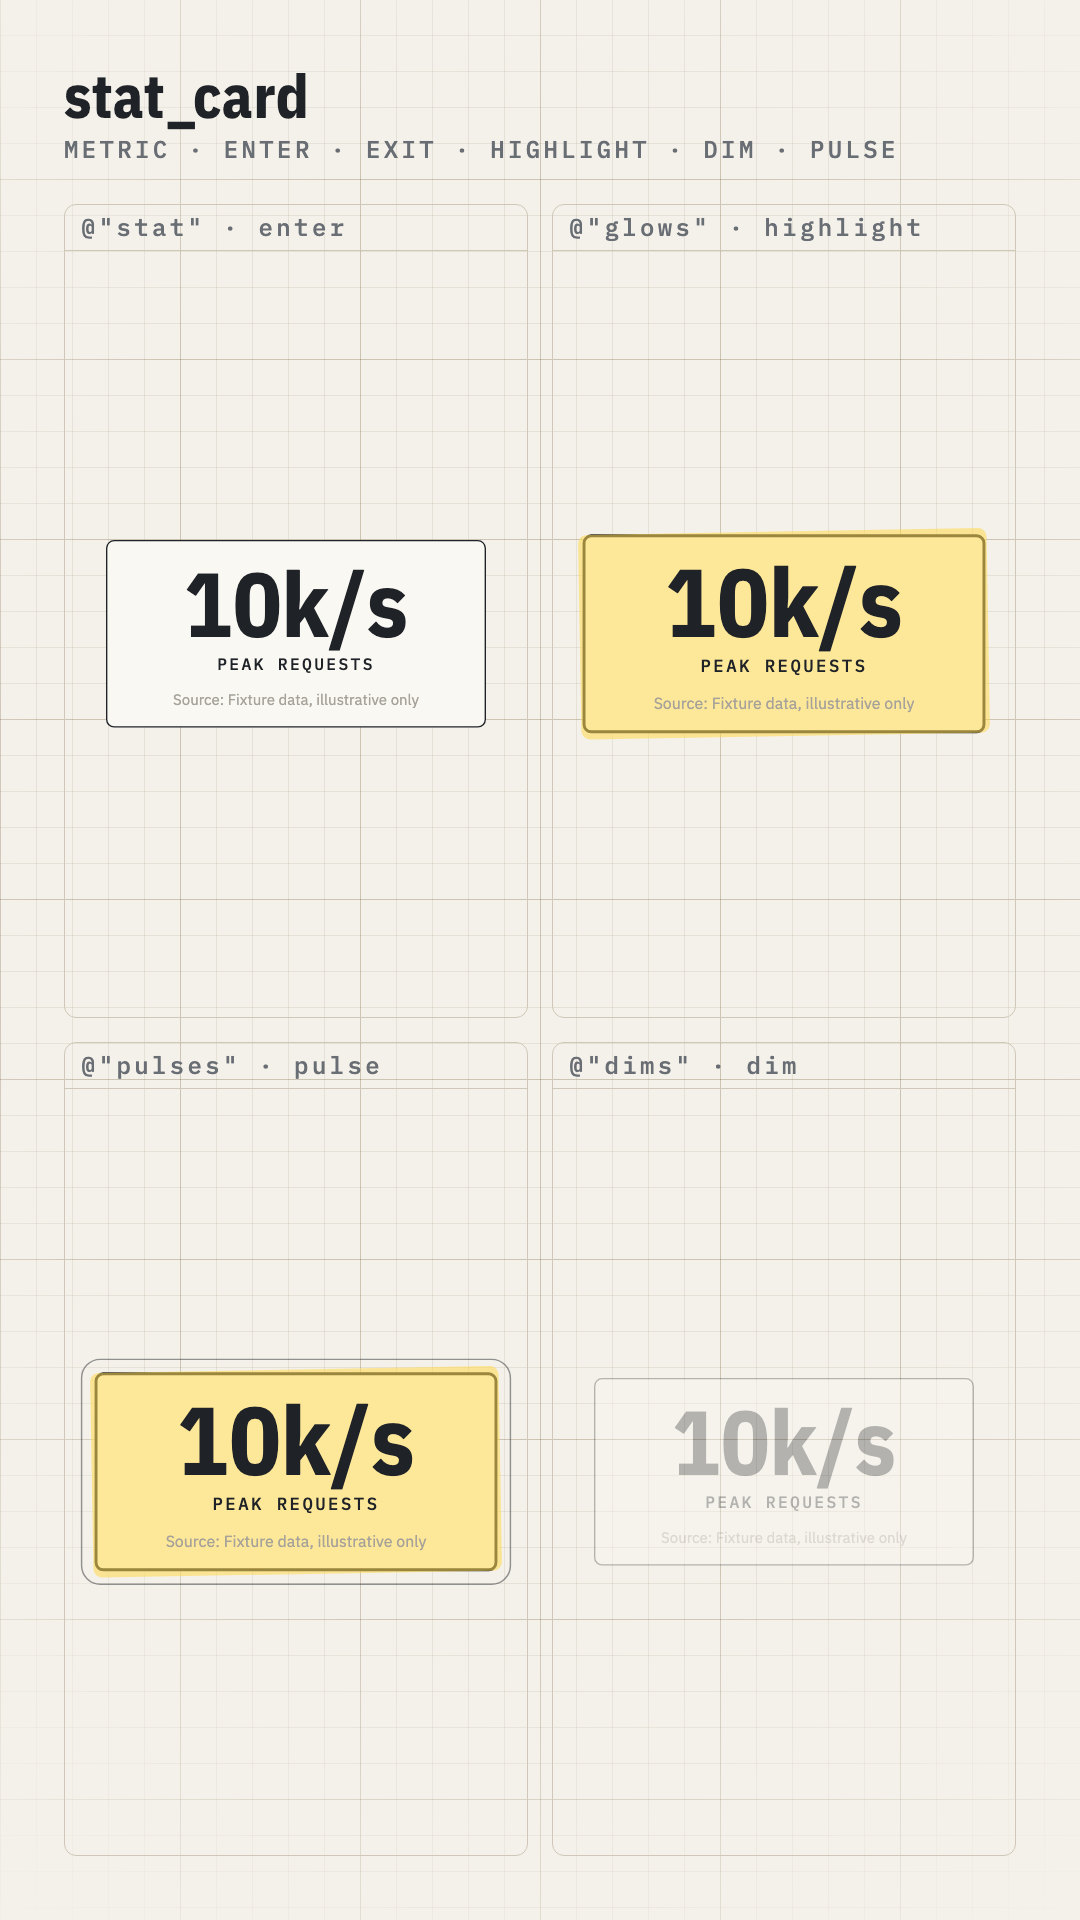
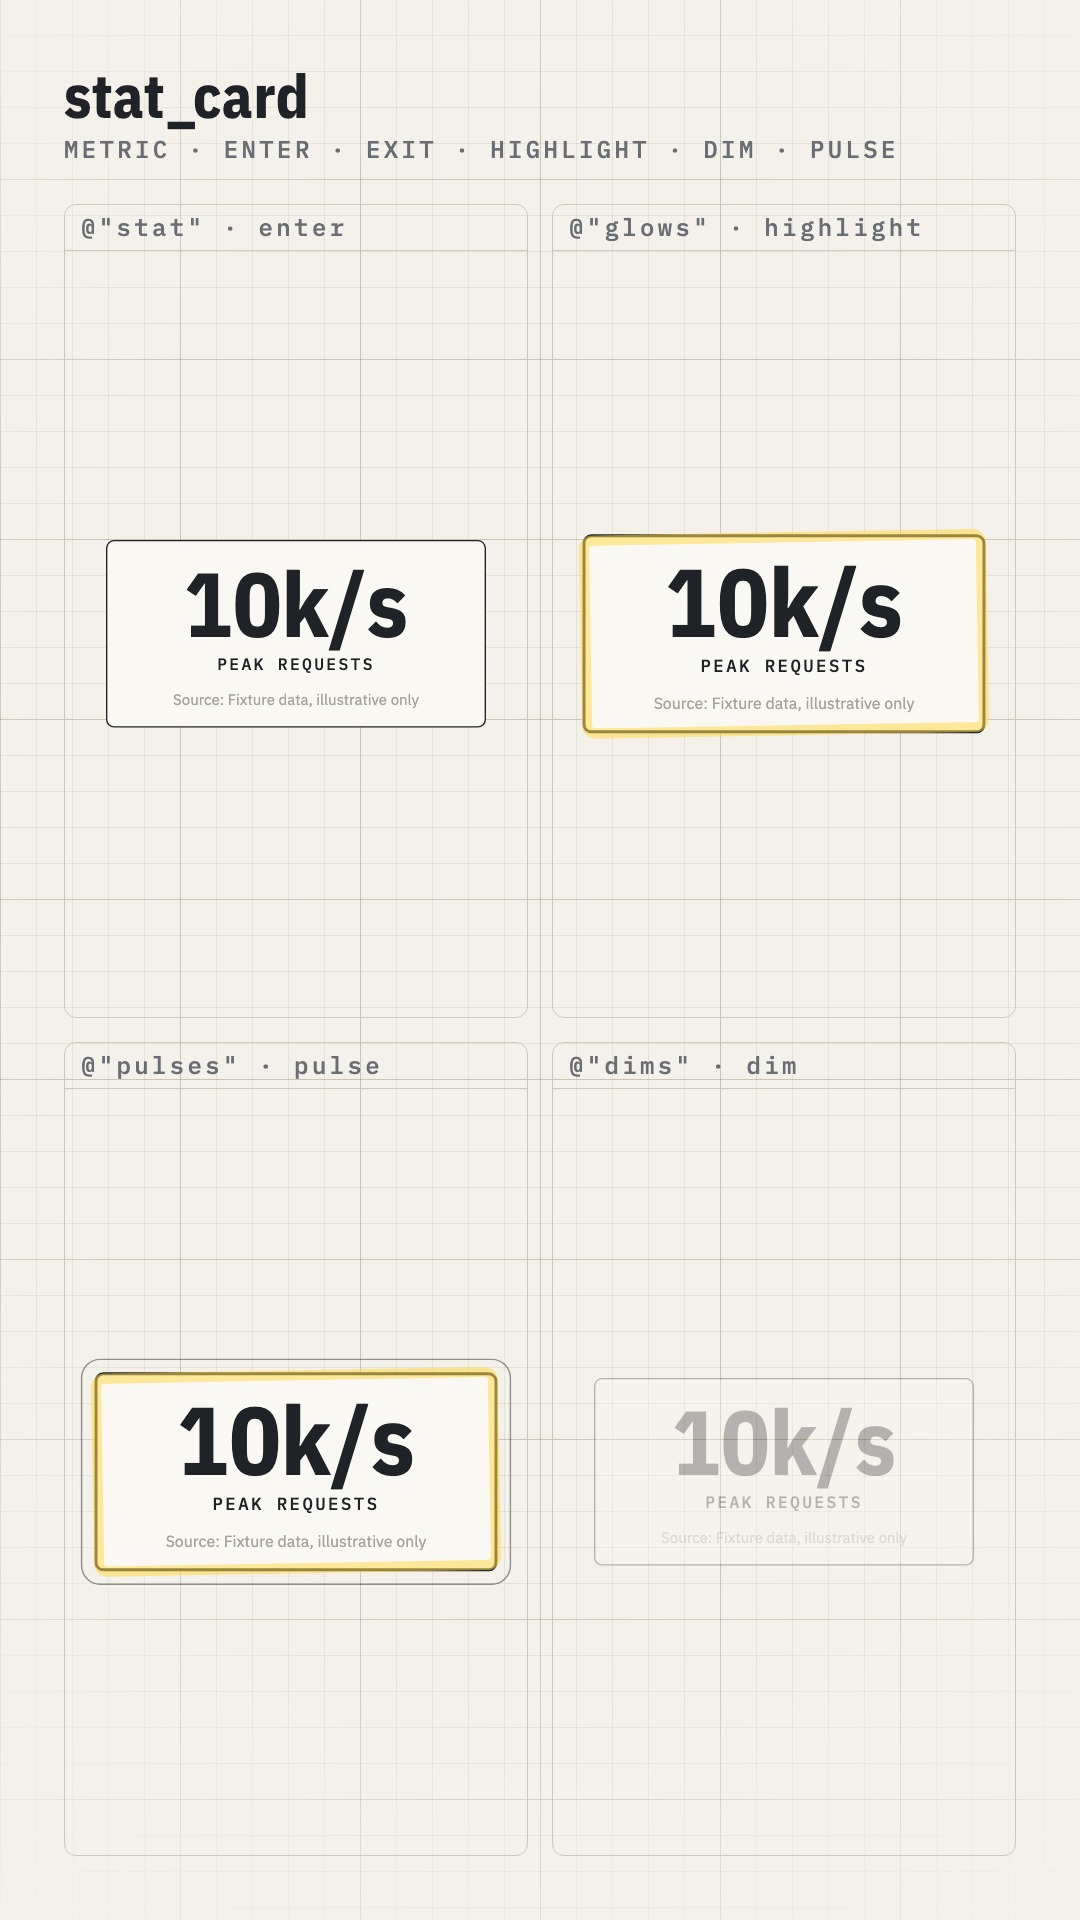
theme: reject ends highlight; frame mark for large elements
- A reject ends a held highlight on that element or part (elementState), in
  every theme; a highlight after the reject holds again. Lock stays.
- Mark themes: cards and spatial containers above MARK_FRAME_MIN (360 px on
  either side) get a 14 px highlighter frame along the border instead of a
  full swipe, drawn over their content so opaque faces cannot hide it.
  Applies to slot_grid, map_base, zone_polygon, grid_overlay, conveyor_queue
  and large cards; text-like elements keep the swipe.

blueprint-dark: only the boards with highlight followed by reject change
(command_bubble, connector, item_icon, node_card, packet_stream, route_path,
slot_grid, tag, timer_ring); every other still is byte-identical.

Changed region(s): [[0.5194, 0.2812, 0.9167, 0.4062], [0.0917, 0.7188, 0.4583, 0.8438]]

diff --git a/packages/renderer/src/emphasis/Mark.tsx b/packages/renderer/src/emphasis/Mark.tsx
@@ -1,11 +1,14 @@
 import { useId } from 'react';
 import type { Point } from '../primitives/geometry.ts';
+import type { Size } from '../primitives/types.ts';
 import type { Theme } from '../theme/index.ts';
 import {
   MARK_ANGLE_DEG,
+  MARK_FRAME_BAND,
   MARK_OVERHANG,
   MARK_RADIUS,
   markFill,
+  markShape,
   markView,
   type MarkLevels,
 } from './emphasis.ts';
@@ -20,26 +23,37 @@ type BoxMarkProps = {
   levels: MarkLevels;
   /** Corner radius of the swipe; `'round'` for circular elements. Defaults to `MARK_RADIUS`. */
   radius?: number | 'round';
+  /**
+   * The element's size. Cards and spatial containers pass it, so above `MARK_FRAME_MIN` they get
+   * a frame mark (`markShape`); text-like elements leave it out and always get a swipe.
+   */
+  size?: Size;
 };
 
 /**
- * A highlighter swipe behind a box element, overhanging it by `MARK_OVERHANG`, plus the pulse
- * ripple. Place it as the first child of an element styled with `markHostCss`.
+ * A highlighter swipe behind a box element, overhanging it by `MARK_OVERHANG` (or, for a large
+ * element, a frame band centred on its border, drawn over its content, that leaves the inside
+ * untouched), plus the pulse ripple.
+ * Place it as the first child of an element styled with `markHostCss`.
  */
-export function BoxMark({ theme, levels, radius = MARK_RADIUS }: BoxMarkProps) {
+export function BoxMark({ theme, levels, radius = MARK_RADIUS, size }: BoxMarkProps) {
   const view = markView(theme, levels);
   if (!view) return null;
   const corner = (extra: number) => (radius === 'round' ? '50%' : radius + extra);
+  const frame = markShape(size) === 'frame';
   return (
     <>
       {view.swipe > 0 ? (
         <div
           style={{
             position: 'absolute',
-            inset: -MARK_OVERHANG,
-            zIndex: -1,
-            borderRadius: corner(0),
-            background: markFill(theme),
+            inset: frame ? -MARK_FRAME_BAND / 2 : -MARK_OVERHANG,
+            // A frame leaves the inside untouched, so it can sit over opaque content (a map).
+            zIndex: frame ? 1 : -1,
+            borderRadius: corner(frame ? MARK_FRAME_BAND / 2 : 0),
+            ...(frame
+              ? { border: `${MARK_FRAME_BAND}px solid ${markFill(theme)}` }
+              : { background: markFill(theme) }),
             opacity: view.swipe,
             transform: `rotate(${MARK_ANGLE_DEG}deg)`,
           }}

diff --git a/packages/renderer/src/primitives/element-state.test.ts b/packages/renderer/src/primitives/element-state.test.ts
@@ -71,6 +71,21 @@ describe('elementState', () => {
     expect(elementState(events, 18, FPS).emphasis).toBeCloseTo(0);
   });
 
+  it('ends a held highlight at a reject (highlight → reject)', () => {
+    const events = [at('highlight', 0), at('lock', 20), at('reject', 40)];
+    expect(elementState(events, 30, FPS)).toMatchObject({ highlight: 1, emphasis: 1 });
+    const after = elementState(events, 80, FPS);
+    expect(after).toMatchObject({ highlight: 0, emphasis: 0 });
+    // Lock is state, not emphasis: it stays.
+    expect(after.actions).toMatchObject({ lock: 1, reject: 1 });
+  });
+
+  it('holds a highlight that comes after the reject (highlight → reject → highlight)', () => {
+    const events = [at('highlight', 0), at('reject', 40), at('highlight', 80)];
+    expect(elementState(events, 60, FPS)).toMatchObject({ highlight: 0 });
+    expect(elementState(events, 120, FPS)).toMatchObject({ highlight: 1, emphasis: 1 });
+  });
+
   it('reports the held highlight apart from the pulse bump', () => {
     const events = [at('pulse', 0), at('highlight', 30)];
     expect(elementState(events, 6, FPS)).toMatchObject({ highlight: 0 });
@@ -197,6 +212,20 @@ describe('parts', () => {
     const state = elementState([at('dim', 0)], 30, FPS);
     expect(partState(state, 'seat-1')).toEqual(IDLE_STATE);
     expect(partState(state, 'toString')).toEqual(IDLE_STATE);
+  });
+
+  it("ends a part's highlight at that part's reject, keeping its lock and other parts", () => {
+    const events = [
+      forParts(at('highlight', 0), 'b2', 'b3'),
+      forParts(at('lock', 10), 'b2'),
+      forParts(at('reject', 40), 'b2'),
+      forParts(at('highlight', 100), 'b2'),
+    ];
+    const rejected = elementState(events, 80, FPS);
+    expect(partState(rejected, 'b2')).toMatchObject({ highlight: 0, emphasis: 0 });
+    expect(partState(rejected, 'b2').actions.lock).toBe(1);
+    expect(partState(rejected, 'b3')).toMatchObject({ highlight: 1 });
+    expect(partState(elementState(events, 140, FPS), 'b2')).toMatchObject({ highlight: 1 });
   });
 
   it('treats malformed parts params as a whole-element event', () => {

diff --git a/packages/renderer/src/emphasis/emphasis.test.tsx b/packages/renderer/src/emphasis/emphasis.test.tsx
@@ -9,7 +9,10 @@ import {
   emphasisShadow,
   emphasisStroke,
   markHostCss,
+  MARK_FRAME_BAND,
+  MARK_FRAME_MIN,
   markLevels,
+  markShape,
   markView,
   RIPPLE_SPREAD,
 } from './emphasis.ts';
@@ -98,5 +101,33 @@ describe('emphasis in a mark theme (drafting-paper)', () => {
 
   it('isolates the host so the swipe sits over its background, under its content', () => {
     expect(markHostCss(paper)).toEqual({ position: 'relative', isolation: 'isolate' });
+  });
+});
+
+describe('markShape', () => {
+  it('frames elements with either side above the threshold, swipes the rest', () => {
+    expect(markShape(undefined)).toBe('swipe');
+    expect(markShape({ width: MARK_FRAME_MIN, height: MARK_FRAME_MIN })).toBe('swipe');
+    expect(markShape({ width: MARK_FRAME_MIN + 1, height: 100 })).toBe('frame');
+    expect(markShape({ width: 100, height: MARK_FRAME_MIN + 1 })).toBe('frame');
+  });
+
+  it('draws a frame as a border band with an untouched inside', () => {
+    const levels = markLevels(highlighted);
+    const frame = html(
+      <BoxMark theme={paper} levels={levels} size={{ width: 840, height: 600 }} />,
+    );
+    expect(frame).toContain(`border:${MARK_FRAME_BAND}px solid rgb(255 216 77 / 0.55)`);
+    expect(frame).not.toContain('background');
+    expect(frame).toContain('rotate(-1deg)');
+    const swipe = html(
+      <BoxMark theme={paper} levels={levels} size={{ width: 300, height: 100 }} />,
+    );
+    expect(swipe).toContain('background:rgb(255 216 77 / 0.55)');
+  });
+
+  it('draws nothing in glow themes, whatever the size', () => {
+    const big = { width: 840, height: 600 };
+    expect(html(<BoxMark theme={dark} levels={markLevels(highlighted)} size={big} />)).toBe('');
   });
 });

diff --git a/packages/renderer/src/emphasis/emphasis.ts b/packages/renderer/src/emphasis/emphasis.ts
@@ -1,5 +1,6 @@
 import type { CSSProperties } from 'react';
 import type { PartState } from '../primitives/element-state.ts';
+import type { Size } from '../primitives/types.ts';
 import { semanticTint, type Theme, type Tint } from '../theme/index.ts';
 
 /**
@@ -22,6 +23,12 @@ export const MARK_ANGLE_DEG = -1;
 
 /** Corner radius of a swipe's ends, in px: slightly rounded, like a chisel tip. */
 export const MARK_RADIUS = 10;
+
+/** Above this width or height (px) a box gets a frame mark along its border, not a full swipe. */
+export const MARK_FRAME_MIN = 360;
+
+/** Width of a frame mark's highlighter band, in px, centred on the element's border. */
+export const MARK_FRAME_BAND = 14;
 
 /** How far the pulse ripple travels past the swipe edge, in px. */
 export const RIPPLE_SPREAD = 28;
@@ -113,4 +120,13 @@ export function markFill(theme: Theme): string {
  */
 export function markHostCss(theme: Theme): CSSProperties {
   return isMarkTheme(theme) ? { position: 'relative', isolation: 'isolate' } : {};
+}
+
+/** A box mark's shape: a full swipe, or a frame along the border for large elements. */
+export type MarkShape = 'swipe' | 'frame';
+
+/** `frame` when either side of `size` exceeds `MARK_FRAME_MIN`; `swipe` otherwise or unsized. */
+export function markShape(size: Size | undefined): MarkShape {
+  if (!size) return 'swipe';
+  return size.width > MARK_FRAME_MIN || size.height > MARK_FRAME_MIN ? 'frame' : 'swipe';
 }

diff --git a/packages/renderer/src/primitives/slot-grid/SlotGrid.tsx b/packages/renderer/src/primitives/slot-grid/SlotGrid.tsx
@@ -39,7 +39,7 @@ export function SlotGrid({ theme, props, box, state }: PrimitiveComponentProps<S
         filter: emphasisFilter(theme, semanticTint(theme, 'neutral'), state.emphasis),
       }}
     >
-      <BoxMark theme={theme} levels={markLevels(state)} radius={theme.radius.md} />
+      <BoxMark theme={theme} levels={markLevels(state)} radius={theme.radius.md} size={box} />
       {slotRows(props.slots, cols).map((row, r) => (
         <div key={r} style={{ display: 'flex', gap: m.gap, ...shelfPlank(theme, props.kind) }}>
           {row.map((slot) => (
@@ -120,7 +120,7 @@ function SlotView({ theme, kind, slot, m, part }: SlotViewProps) {
           transform: `translate(${shakeOffset(rejected, theme.space.xs)}px, ${-lift}px) scale(${1 + 0.08 * part.emphasis})`,
         }}
       >
-        <BoxMark theme={theme} levels={markLevels(part)} radius={theme.radius.sm} />
+        <BoxMark theme={theme} levels={markLevels(part)} radius={theme.radius.sm} size={m.card} />
         {slot.icon ? (
           <AssetGlyph theme={theme} assetId={slot.icon} size={SLOT_ICON} colour={tint.base} />
         ) : null}

diff --git a/packages/renderer/src/primitives/conveyor-queue/ConveyorQueue.tsx b/packages/renderer/src/primitives/conveyor-queue/ConveyorQueue.tsx
@@ -34,7 +34,7 @@ export function ConveyorQueue({
         opacity: state.presence * (1 - 0.7 * state.dimmed),
       }}
     >
-      <BoxMark theme={theme} levels={markLevels(state)} radius={theme.radius.md} />
+      <BoxMark theme={theme} levels={markLevels(state)} radius={theme.radius.md} size={box} />
       <Belt
         theme={theme}
         width={box.width}
@@ -171,7 +171,7 @@ function Block({ theme, item, part, m, x, lift, opacity }: BlockProps) {
         transform: `scale(${1 + 0.08 * part.emphasis})`,
       }}
     >
-      <BoxMark theme={theme} levels={markLevels(part)} radius={theme.radius.sm} />
+      <BoxMark theme={theme} levels={markLevels(part)} radius={theme.radius.sm} size={m.block} />
       {item.label}
       {locked > 0 ? (
         <Badge

diff --git a/packages/renderer/src/primitives/element-state.ts b/packages/renderer/src/primitives/element-state.ts
@@ -91,7 +91,8 @@ export const ACTION_DURATION_SEC: Record<EventAction, number> = {
 
 const PRESENCE: ReadonlySet<EventAction> = new Set(['enter', 'exit']);
 const DIM_TOGGLES: ReadonlySet<EventAction> = new Set(['dim', 'highlight', 'enter']);
-const HIGHLIGHT_TOGGLES: ReadonlySet<EventAction> = new Set(['highlight', 'dim', 'exit']);
+/** A held highlight ends at a later dim, exit or reject (a new highlight after it starts again). */
+const HIGHLIGHT_TOGGLES: ReadonlySet<EventAction> = new Set(['highlight', 'dim', 'exit', 'reject']);
 
 /**
  * State at global `frame`; elapsed times use `frame / fps` as the absolute video time. Events that

diff --git a/packages/renderer/src/primitives/item-icon/ItemIcon.tsx b/packages/renderer/src/primitives/item-icon/ItemIcon.tsx
@@ -41,7 +41,12 @@ export function ItemIcon({ theme, props, box, state }: PrimitiveComponentProps<I
           justifyContent: 'center',
         }}
       >
-        <BoxMark theme={theme} levels={markLevels(state)} radius={theme.radius.lg} />
+        <BoxMark
+          theme={theme}
+          levels={markLevels(state)}
+          radius={theme.radius.lg}
+          size={{ width: tile, height: tile }}
+        />
         <AssetGlyph
           theme={theme}
           assetId={props.asset}

diff --git a/packages/renderer/src/primitives/map-base/MapBase.tsx b/packages/renderer/src/primitives/map-base/MapBase.tsx
@@ -32,7 +32,7 @@ export function MapBase({ theme, props, box, state }: PrimitiveComponentProps<Ma
         opacity: state.presence * (1 - 0.6 * state.dimmed),
       }}
     >
-      <BoxMark theme={theme} levels={markLevels(state)} radius={theme.radius.lg} />
+      <BoxMark theme={theme} levels={markLevels(state)} radius={theme.radius.lg} size={box} />
       <svg width={box.width} height={box.height}>
         {city.streets
           .filter((s) => s.avenue)

diff --git a/packages/renderer/src/primitives/command-bubble/CommandBubble.tsx b/packages/renderer/src/primitives/command-bubble/CommandBubble.tsx
@@ -47,7 +47,7 @@ export function CommandBubble({
           overflow: 'visible',
         }}
       >
-        <BoxMark theme={theme} levels={markLevels(state)} radius={theme.radius.lg} />
+        <BoxMark theme={theme} levels={markLevels(state)} radius={theme.radius.lg} size={box} />
         <span style={{ color: tint.base, fontWeight: 700 }}>{shown.verb}</span>
         <span>{shown.rest}</span>
         {chars < props.text.length ? (

diff --git a/packages/renderer/src/primitives/formula-card/FormulaCard.tsx b/packages/renderer/src/primitives/formula-card/FormulaCard.tsx
@@ -35,7 +35,7 @@ export function FormulaCard({
         padding: `0 ${theme.space.lg}px`,
       }}
     >
-      <BoxMark theme={theme} levels={markLevels(state)} radius={theme.radius.md} />
+      <BoxMark theme={theme} levels={markLevels(state)} radius={theme.radius.md} size={box} />
       <div
         // KaTeX's inline mode may break lines after relations; a formula stays on one line.
         style={{

diff --git a/packages/renderer/src/primitives/node-card/NodeCard.tsx b/packages/renderer/src/primitives/node-card/NodeCard.tsx
@@ -31,7 +31,7 @@ export function NodeCard({ theme, props, box, state }: PrimitiveComponentProps<N
         padding: `0 ${theme.space.lg}px`,
       }}
     >
-      <BoxMark theme={theme} levels={markLevels(state)} radius={theme.radius.md} />
+      <BoxMark theme={theme} levels={markLevels(state)} radius={theme.radius.md} size={box} />
       {props.icon ? (
         <AssetGlyph
           theme={theme}
